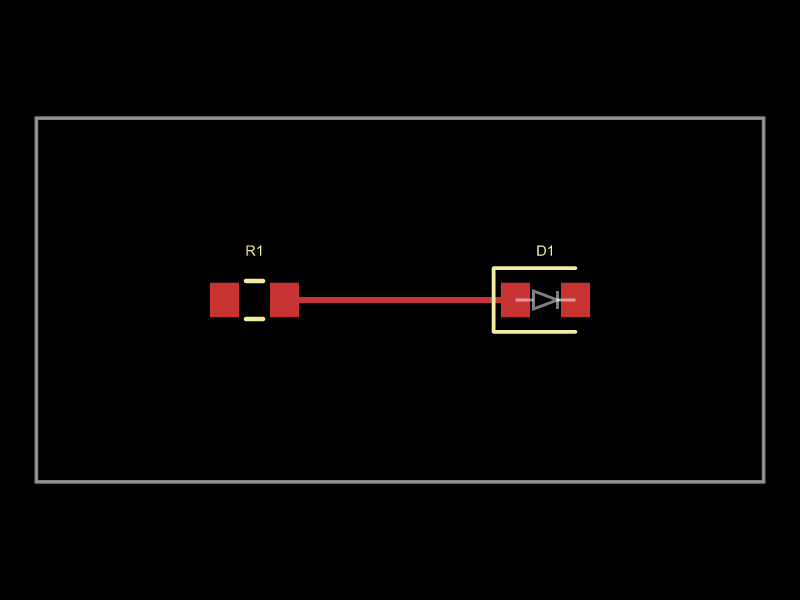
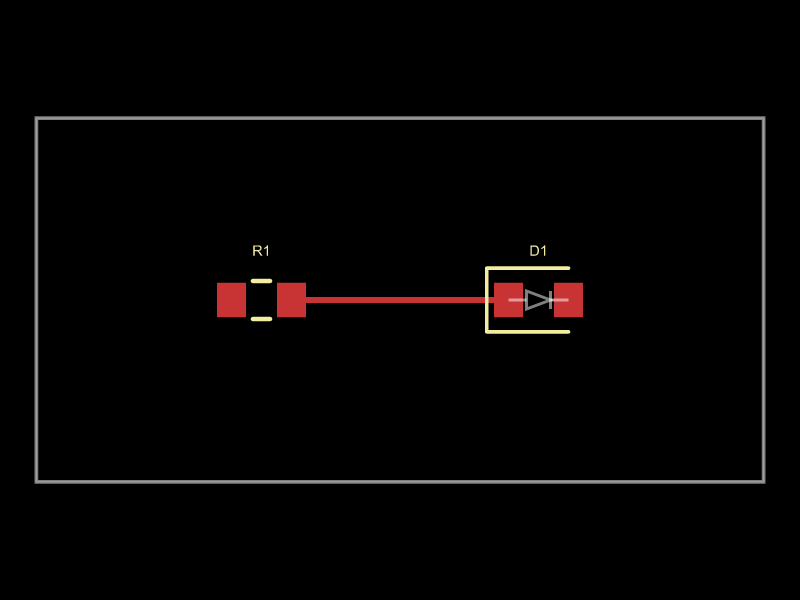
fix: new design rules

diff --git a/index.circuit.tsx b/index.circuit.tsx
@@ -4,8 +4,8 @@ export default () => (
 
     <schematicsheet name="Main" displayName="Example" sheetIndex={0} sheetWidth="70mm" sheetHeight="50mm" />
 
-    <resistor name="R1" schSheetName="Main" schX={-2} schY={0} resistance="330" footprint="0603" pcbX={-4} pcbY={0} />
-    <led name="D1" schSheetName="Main" schX={2} schY={0} color="red" footprint="0603" pcbX={4} pcbY={0} />
+    <resistor name="R1" schSheetName="Main" schX={-2} schY={0} resistance="330" footprint="0603" pcbX={-3.81} pcbY={0} />
+    <led name="D1" schSheetName="Main" schX={2} schY={0} color="red" footprint="0603" pcbX={3.81} pcbY={0} />
 
     <trace name="T1" from="R1.pin2" to="D1.anode" />
   </board>

diff --git a/CLAUDE.md b/CLAUDE.md
@@ -17,7 +17,7 @@ A tscircuit project template: PCB designs are written as React/TSX and compiled 
 1. Read the **Requirements** section. If any bullet is still `TODO` or ambiguous (power input, board size, connectors, key values), ask the user before designing. Don't invent power rails, board outline, connectors or mounting holes.
 2. Replace the placeholder in `index.circuit.tsx`. Choose parts (see "Choosing JLCPCB parts" below), compute values (write the calculation into README Design notes), and record each assembled part's `supplierPartNumbers` in the TSX (the TSX is the BOM; no separate BOM in the README).
 3. Iterate with the tiered checks below; fix schematic layout per the schematic rules.
-4. Keep `README.md` current as you go: Status, Design notes (what and why), Decisions (including rejected alternatives), Open questions. Regenerate the embedded images after schematic/layout changes.
+4. Keep `README.md` current as you go: Status, Design notes (what and why), Decisions (including rejected alternatives), Open questions. Regenerate the embedded images after schematic/layout changes, and update the `DESIGN.md` Project status table (one row per rule).
 5. Rename for the new project: the README `# title` and the `name` in `package.json`.
 
 Docs-only edits need no checks. Never run `tsci push` or place orders unless explicitly asked. Electrical safety and manufacturability remain the user's responsibility.
@@ -59,16 +59,16 @@ The template ships without a formatter or linter. When the user wants one (ask f
 
 ## Conventions and rules
 
-- PCB layout follows `DESIGN.md` (alignment and routing rules). Read it before moving or adding parts, pads or labels.
+- PCB layout and schematic follow `DESIGN.md` (alignment, routing, mounting, schematic and placement rules, 25 in all; decoupling caps within 3 mm of the IC power pin is a must). Read it before moving or adding parts, pads or labels. Designator size comes from `<board pcbStyle={{ silkscreenFontSize }}>`; a designator is moved with the `pcbSx={{ '& silkscreentext': { pcbX, pcbY } }}` prop of its part (offset from the part; `pcbStyle.silkscreenTextPosition` is typed but not implemented in the installed core).
 - Detailed guidance lives in the bundled skill: `.claude/skills/tscircuit/` (SKILL.md, CLI.md, SYNTAX.md, WORKFLOW.md, CHECKLIST.md, FOOTPRINTS.md, per-element docs in `elements/`, templates in `templates/`).
 - Don't invent JSX props or CLI flags; confirm in `elements/*.md` or `--help`. Learn from https://docs.tscircuit.com/ before writing or changing circuit code, not only for what the skill doesn't cover. `https://docs.tscircuit.com/llms.txt` (same as `ai.txt`) is the whole docs set as one ~870 KB Repomix dump: run `npm run update:llms` to save it as `docs/llms.txt` (gitignored) and grep that file, never load it whole. The skill comes from https://github.com/tscircuit/skill (`npx skills add tscircuit/skill`).
 - Define `pinLabels` and `pinAttributes` on chips before wiring traces. Reference pins by label (`U1.VCC`, `net.GND`).
 - Prefer a footprinter string (`footprint="0603"`) over a custom `<footprint>`; read FOOTPRINTS.md before writing custom footprints. Exception: for a JLCPCB-specific part, `footprint="jlcpcb:..."` fetches from EasyEDA at build time and fails on HTTP 403 rate limits, so define a local `<footprint>` instead (pad geometry copied from the JLCPCB part). Custom footprints get no 3D body, so pass `cadModel={<cadmodel modelUrl={...} />}` with absolute URLs `https://modelcdn.tscircuit.com/jscad_models/<footprinter>.glb`. Don't import local `./models/*.glb`: `tsci build` resolves them but the `tsci dev` 3D viewer 404s on the relative path. Check both `3d.png` and the dev 3D tab after changing.
 - The parts engine is disabled (`tscircuit.config.ts` `platformConfig.partsEngineDisabled`; `build`/`snapshot`/`export` also take `--disable-parts-engine`, `dev` and `check` don't). With it on, every part carrying `supplierPartNumbers` triggers an EasyEDA footprint cross-check that returns HTTP 403 `source_part_not_found_warning`s. A JLCPCB login does not help; tsci uses no JLC credentials. Pin parts via `supplierPartNumbers` yourself (the engine's auto-picking is off). The BOM export only lists parts that carry a supplier part number. The "missing a manufacturer part number" build warnings on the placeholder are expected and go away once parts have `supplierPartNumbers`.
 - For USB-C use `<connector standard="usb_c" />`, not a JLCPCB import.
-- Always keep a `<schematicsheet>`: without one `tsci build` warns "No <schematicsheet> was found" (the warning badge in `tsci dev`). Give it an explicit `sheetWidth`/`sheetHeight` sized to the circuit, because the default A4 frame is huge and shrinks the circuit to a speck in the README image. Parts and labels must sit inside the frame with margin (the build warns "extends outside the drawing area" otherwise; the placeholder needed 70x50mm for two parts), then re-render to check. Every part needs `schSheetName="<sheet name>"`; wrapper components must forward it to the chip.
-- Group schematics with `<schematicsheet>`/`<schematicsection>` once a design has 5+ components. Split the diagram into logical blocks (e.g. power input, core IC, timing network, outputs): give each block its own `schSectionName` and keep its parts clustered by `schX`/`schY`, with a clear gap between blocks.
-- Keep schematic wires from overlapping (the auto-layout can run wires of different nets along the same line, which looks like a false connection). Set `schX`/`schY`/`schRotation` on every part instead of trusting auto-placement, then render with `tsci export index.circuit.tsx -f schematic-svg -o <scratchpad>/x.svg` and look at it (`rsvg-convert -w 4000` to PNG, crop). Fix by: rotating parts so pin1/pin2 face their neighbours, reordering `schPinArrangement` so pins that share a net sit on the same side and in the order of the parts they connect to, spacing clusters apart, and checking `tsci check schematic-placement` hints. A hop mark where wires cross is fine; a dot or shared segment between different nets is not. Swapping two pins in `schPinArrangement` only redraws the symbol (netlist and PCB unchanged).
+- Always keep a `<schematicsheet>`: without one `tsci build` warns "No <schematicsheet> was found" (the warning badge in `tsci dev`). Give it an explicit `sheetWidth`/`sheetHeight` sized to the circuit (one `schX`/`schY` unit is about 10 mm of sheet and symbols are only 1-2 units wide, so keep part coordinates within a few tens of units; the sheet is centred near (5, -5), and 260 x 180 mm holds about x -8..18, y -14..4), because the default A4 frame is huge and shrinks the circuit to a speck in the README image. Parts and labels must sit inside the frame with margin (the build warns "extends outside the drawing area" otherwise; the placeholder needed 70x50mm for two parts), then re-render to check. Every part needs `schSheetName="<sheet name>"`; wrapper components must forward it to the chip.
+- Group schematics with `<schematicsheet>`/`<schematicsection>` once a design has 5+ components. Split the diagram into logical blocks (e.g. power input, core IC, timing network, outputs): give each block its own `schSectionName` and keep its parts clustered by `schX`/`schY`, with a clear gap between blocks (DESIGN.md rule 17); draw inputs left, core middle, outputs right (rule 18).
+- Keep schematic wires from overlapping (DESIGN.md rules 17-18 cover block layout; the auto-layout can run wires of different nets along the same line, which looks like a false connection). Set `schX`/`schY`/`schRotation` on every part instead of trusting auto-placement, then render with `tsci export index.circuit.tsx -f schematic-svg -o <scratchpad>/x.svg` and look at it (`rsvg-convert -w 4000` to PNG, crop). Fix by: rotating parts so pin1/pin2 face their neighbours, reordering `schPinArrangement` so pins that share a net sit on the same side and in the order of the parts they connect to, spacing clusters apart, and checking `tsci check schematic-placement` hints. A hop mark where wires cross is fine; a dot or shared segment between different nets is not. Swapping two pins in `schPinArrangement` only redraws the symbol (netlist and PCB unchanged).
 - Same-net pins closer than `schMaxTraceDistance` (5 schematic units when set on the board) get an auto-drawn wire between them, even across blocks. To keep a separate block (e.g. a power input) connected by net labels only, place it more than ~5 units from every pin of those nets in the main block, directly below/beside it without widening the picture needlessly.
 - `tsci check schematic-placement` hints like `TwoPinComponentCouldBeFlipped` count wire turns only and can make the drawing worse. Render before applying a hint; an unapplied hint is informational (the check still exits 0).
 - `tsci snapshot --schematic-only` does not overwrite a changed snapshot ("Run with --update to fix"): pass `-u`. `tsci build` also warns on unnamed `<trace>`s and prints "Could not save autorouting paths…" on every run; neither blocks the build.

diff --git a/DESIGN.md b/DESIGN.md
@@ -1,6 +1,6 @@
 # Design rules
 
-PCB alignment and routing rules for the board layout (`index.circuit.tsx`). A board whose geometry is fixed by its parts (e.g. an LED matrix) may be exempt; say so in the README.
+Schematic and PCB rules for the board (`index.circuit.tsx`): alignment (1-13), routing (14-15), mounting (16), schematic (17-18) and placement (19-25). A board whose geometry is fixed by its parts (e.g. an LED matrix) may be exempt; say so in the README. Where two rules pull against each other the electrical one wins (decoupling, rule 22, over via avoidance, rule 15, and over equal spacing, rules 10 and 11); the status table at the end records every such exception.
 
 ## Alignment rules
 
@@ -20,9 +20,33 @@ PCB alignment and routing rules for the board layout (`index.circuit.tsx`). A bo
 
 ## Routing rules
 
-14. **Double width for power lines:** Draw the power lines (5V, GND) twice as wide as the standard (signal) trace.
-15. **Avoid vias on power lines:** Try not to use vias on the power lines (5V, GND); route them on one layer where possible.
+14. **Double width for power lines:** Draw the power lines (5V, GND) at least twice as wide as the standard (signal) trace.
+15. **Avoid vias on power lines:** Try not to use vias on the power lines (5V, GND); route them on one layer where possible. A via at the GND pad of a decoupling capacitor or of a regulator is accepted when the alternative is a longer path (rule 22 wins).
+
+## Mounting rules
+
+16. **Keep the screw head area free:** Around every mounting hole keep a free circle of twice the screw head width: 3.5 mm hole, 3 mm screw (5.5 mm head), 6 mm free diameter, concentric with the hole. Place no component, pad or silkscreen text inside it, as far as the board allows. Traces and the copper pour may run through it.
+
+## Schematic rules
+
+17. **Group by function:** Give every functional block (e.g. MCU, power, outputs, input) its own `<schematicsection>` (`schSectionName`) on the one sheet and keep its parts clustered by `schX`/`schY`, with a clear gap between blocks. Add a second sheet only when a block no longer fits on one.
+18. **Draw the signal path left to right:** Put the inputs (power in, buttons) on the left, the core (MCU, IC) in the middle and the outputs (drivers, connectors) on the right, so the circuit reads from left to right. Keep the pins of one function on one side of a symbol (inputs left, outputs right, supply on top, GND below).
+
+## Placement rules
+
+19. **Place the fixed parts first:** Connectors, module headers and the power input (their positions come from the case and the pin rows) go first; then the power parts, then the small parts around them.
+20. **Keep a function block together:** Put the parts of one block next to each other (the whole power supply, the whole level shifter section). A block may only split when a pin position forces it.
+21. **Separate analog, digital and power:** Keep analog parts (audio, sensors, lines with current peaks), the digital side (MCU, logic, data lines) and the power parts in their own areas; no digital line runs alongside a sensitive or high-current analog line, and the supply parts sit on the supply path.
+22. **Decouple at the pin:** Put the decoupling capacitor of every IC within 3 mm (pad centre to pad centre) of its power pin, or as close as physically possible, joined by a short, wide trace (at least the width of rule 14 for 5V and GND). This rule is a must. Modules that carry their own capacitors are exempt.
+23. **Keep crystals close:** A crystal sits within 5 mm of the MCU or clock chip, and its clock traces are short, straight and of equal length.
+24. **Keep the board edge free:** Keep every part body, pad and silkscreen text at least 1.27 mm (0.05 in) from the board edge, so nothing is damaged when the board is separated from a panel (5 mm if the board is cut from a panel by routed tabs; say in the README if a panel is used). Deliberate edge parts (rule 13) are the exception.
+25. **Handle heat:** Put high-heat parts (regulators, MOSFETs, power resistors) in the airflow and give them copper to spread the heat: a dedicated pour on their tab, thermal vias, and wide traces.
 
 ## Project status
 
-Record here which rules the current layout meets and where it deviates (and why), once a real design replaces the placeholder.
+Audit the layout against rules 1..25 once a real design replaces the placeholder: board size, grid origin (board centre) and grid step, with numbers measured from `dist/<name>/circuit.json`. One row per rule: `pass`, `exception` (say what and why, including every rule-22 / rule-15 trade-off) or `n/a`.
+
+| # | Status | How |
+| --- | --- | --- |
+
+Placeholder (20 x 10 mm, one resistor, one LED, one trace): audited against all 25 rules; rule 3 was the only miss (parts at ±4 mm, now ±3.81 mm = 3 x 1.27 mm); everything else holds or is n/a (no connectors, holes, ICs or power nets).

diff --git a/README.md b/README.md
@@ -59,7 +59,7 @@ Before sharing or fabricating, work through the checks in order: `tsci check net
 ## References
 
 - [tscircuit docs](https://docs.tscircuit.com/); the full docs are also available as one text file at https://docs.tscircuit.com/llms.txt
-- [DESIGN.md](DESIGN.md): PCB alignment and routing rules
+- [DESIGN.md](DESIGN.md): PCB alignment, routing, mounting, schematic and placement rules
 - [tscircuit datasheets](https://tscircuit.com/datasheets)
 - [jlcsearch](https://jlcsearch.tscircuit.com/)
 - AI skill: [tscircuit/skill](https://github.com/tscircuit/skill), installed in `.claude/skills/tscircuit/`
